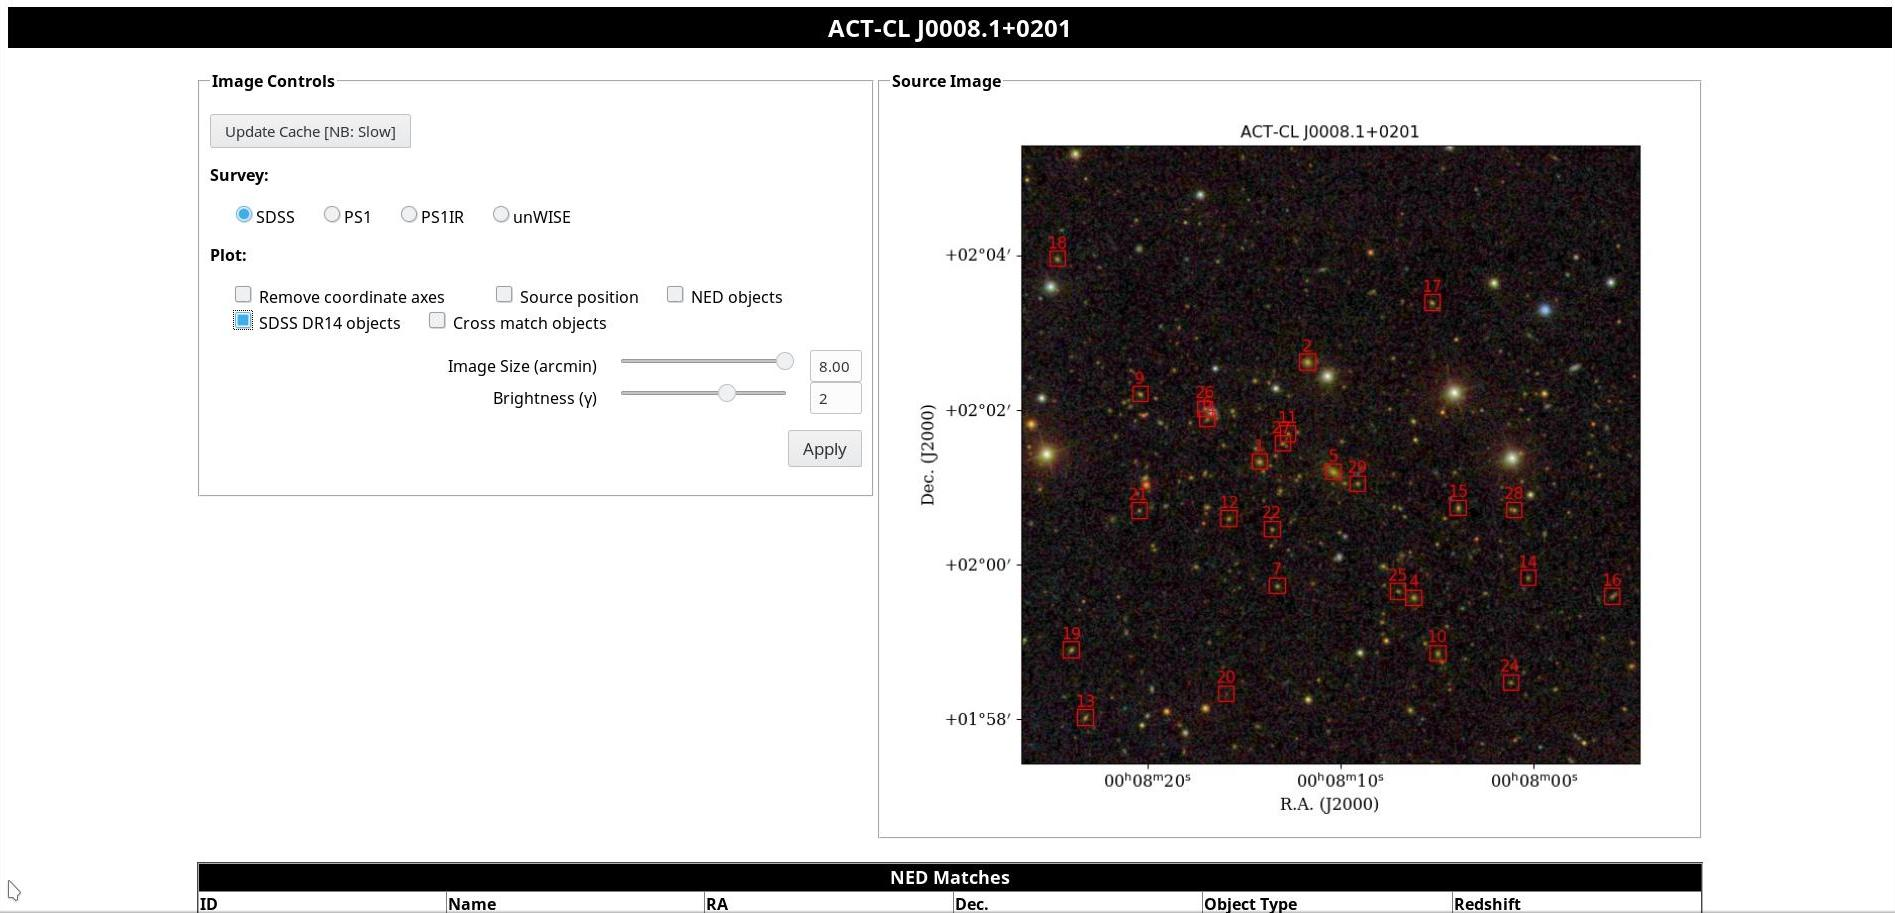
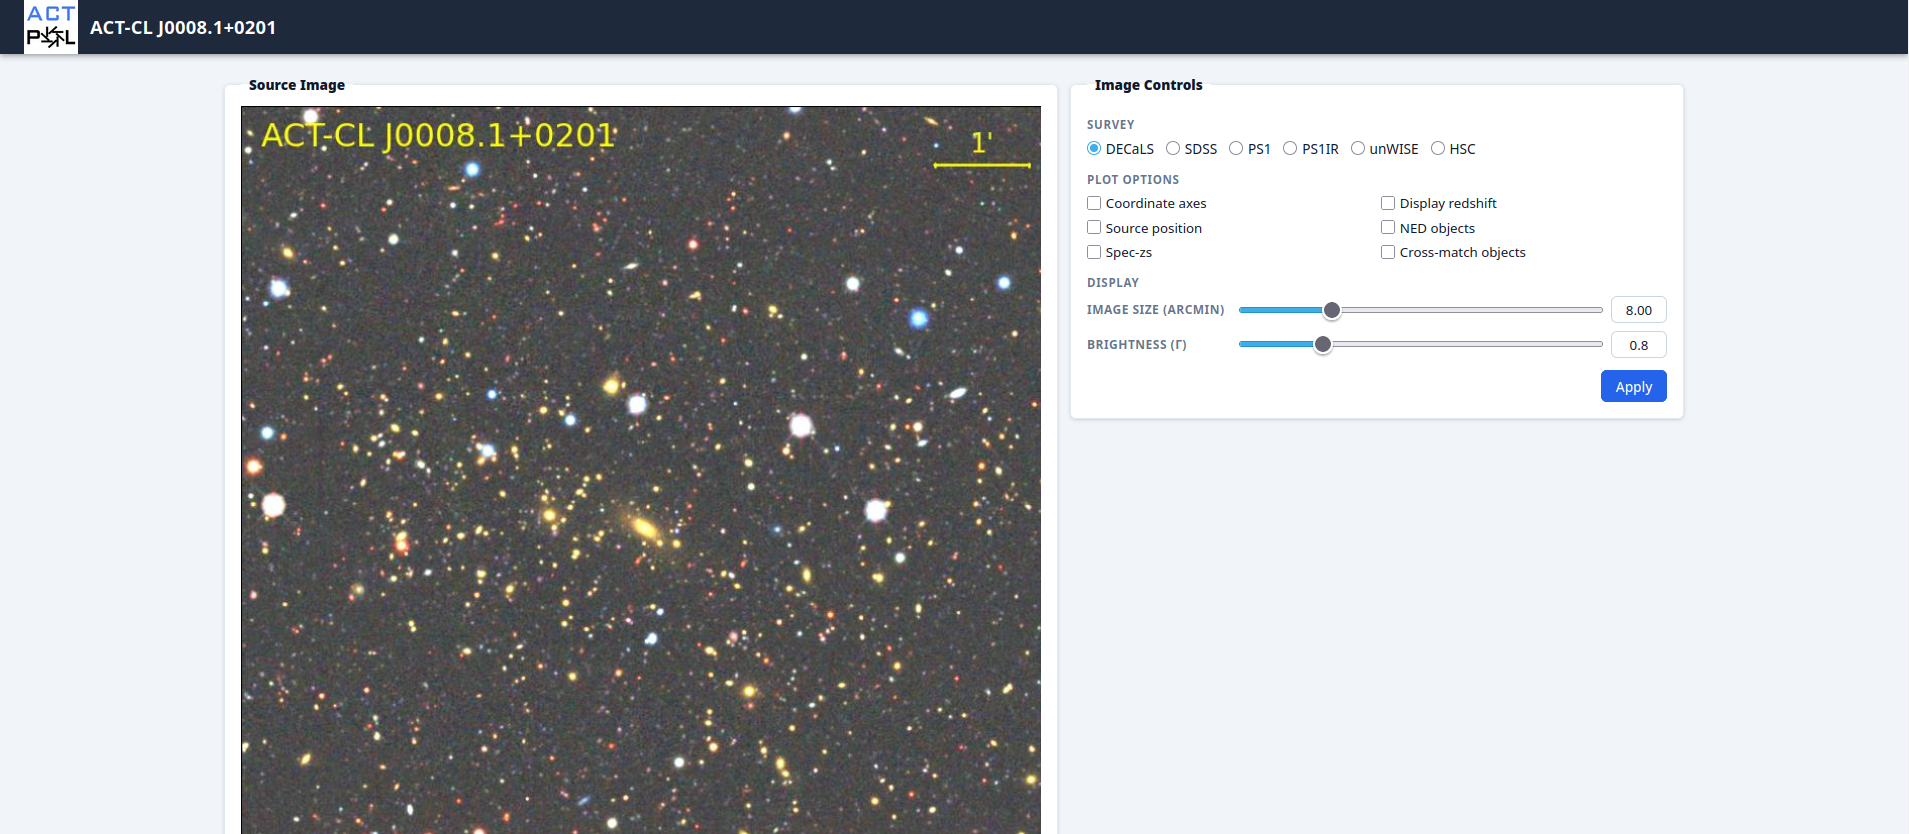
Updating example

diff --git a/examples/E-D56/README.md b/examples/E-D56/README.md
@@ -66,8 +66,7 @@ including the images we specified, as in Fig. 2 below:
 
 ![alt text](figs/sourcepage.jpg "Fig. 2: A source information page for the E-D56 example.")
 
-Note that the images pulled from the SDSS DR13 webserver are pretty dark
-by default, and you will probably need to crank up the brightness using the 
+Note that you can adjust the brightness of the image by using the
 slider, as shown.
 
 When you are finished, you can terminate `sourcery_test` using `Ctrl-c`.
